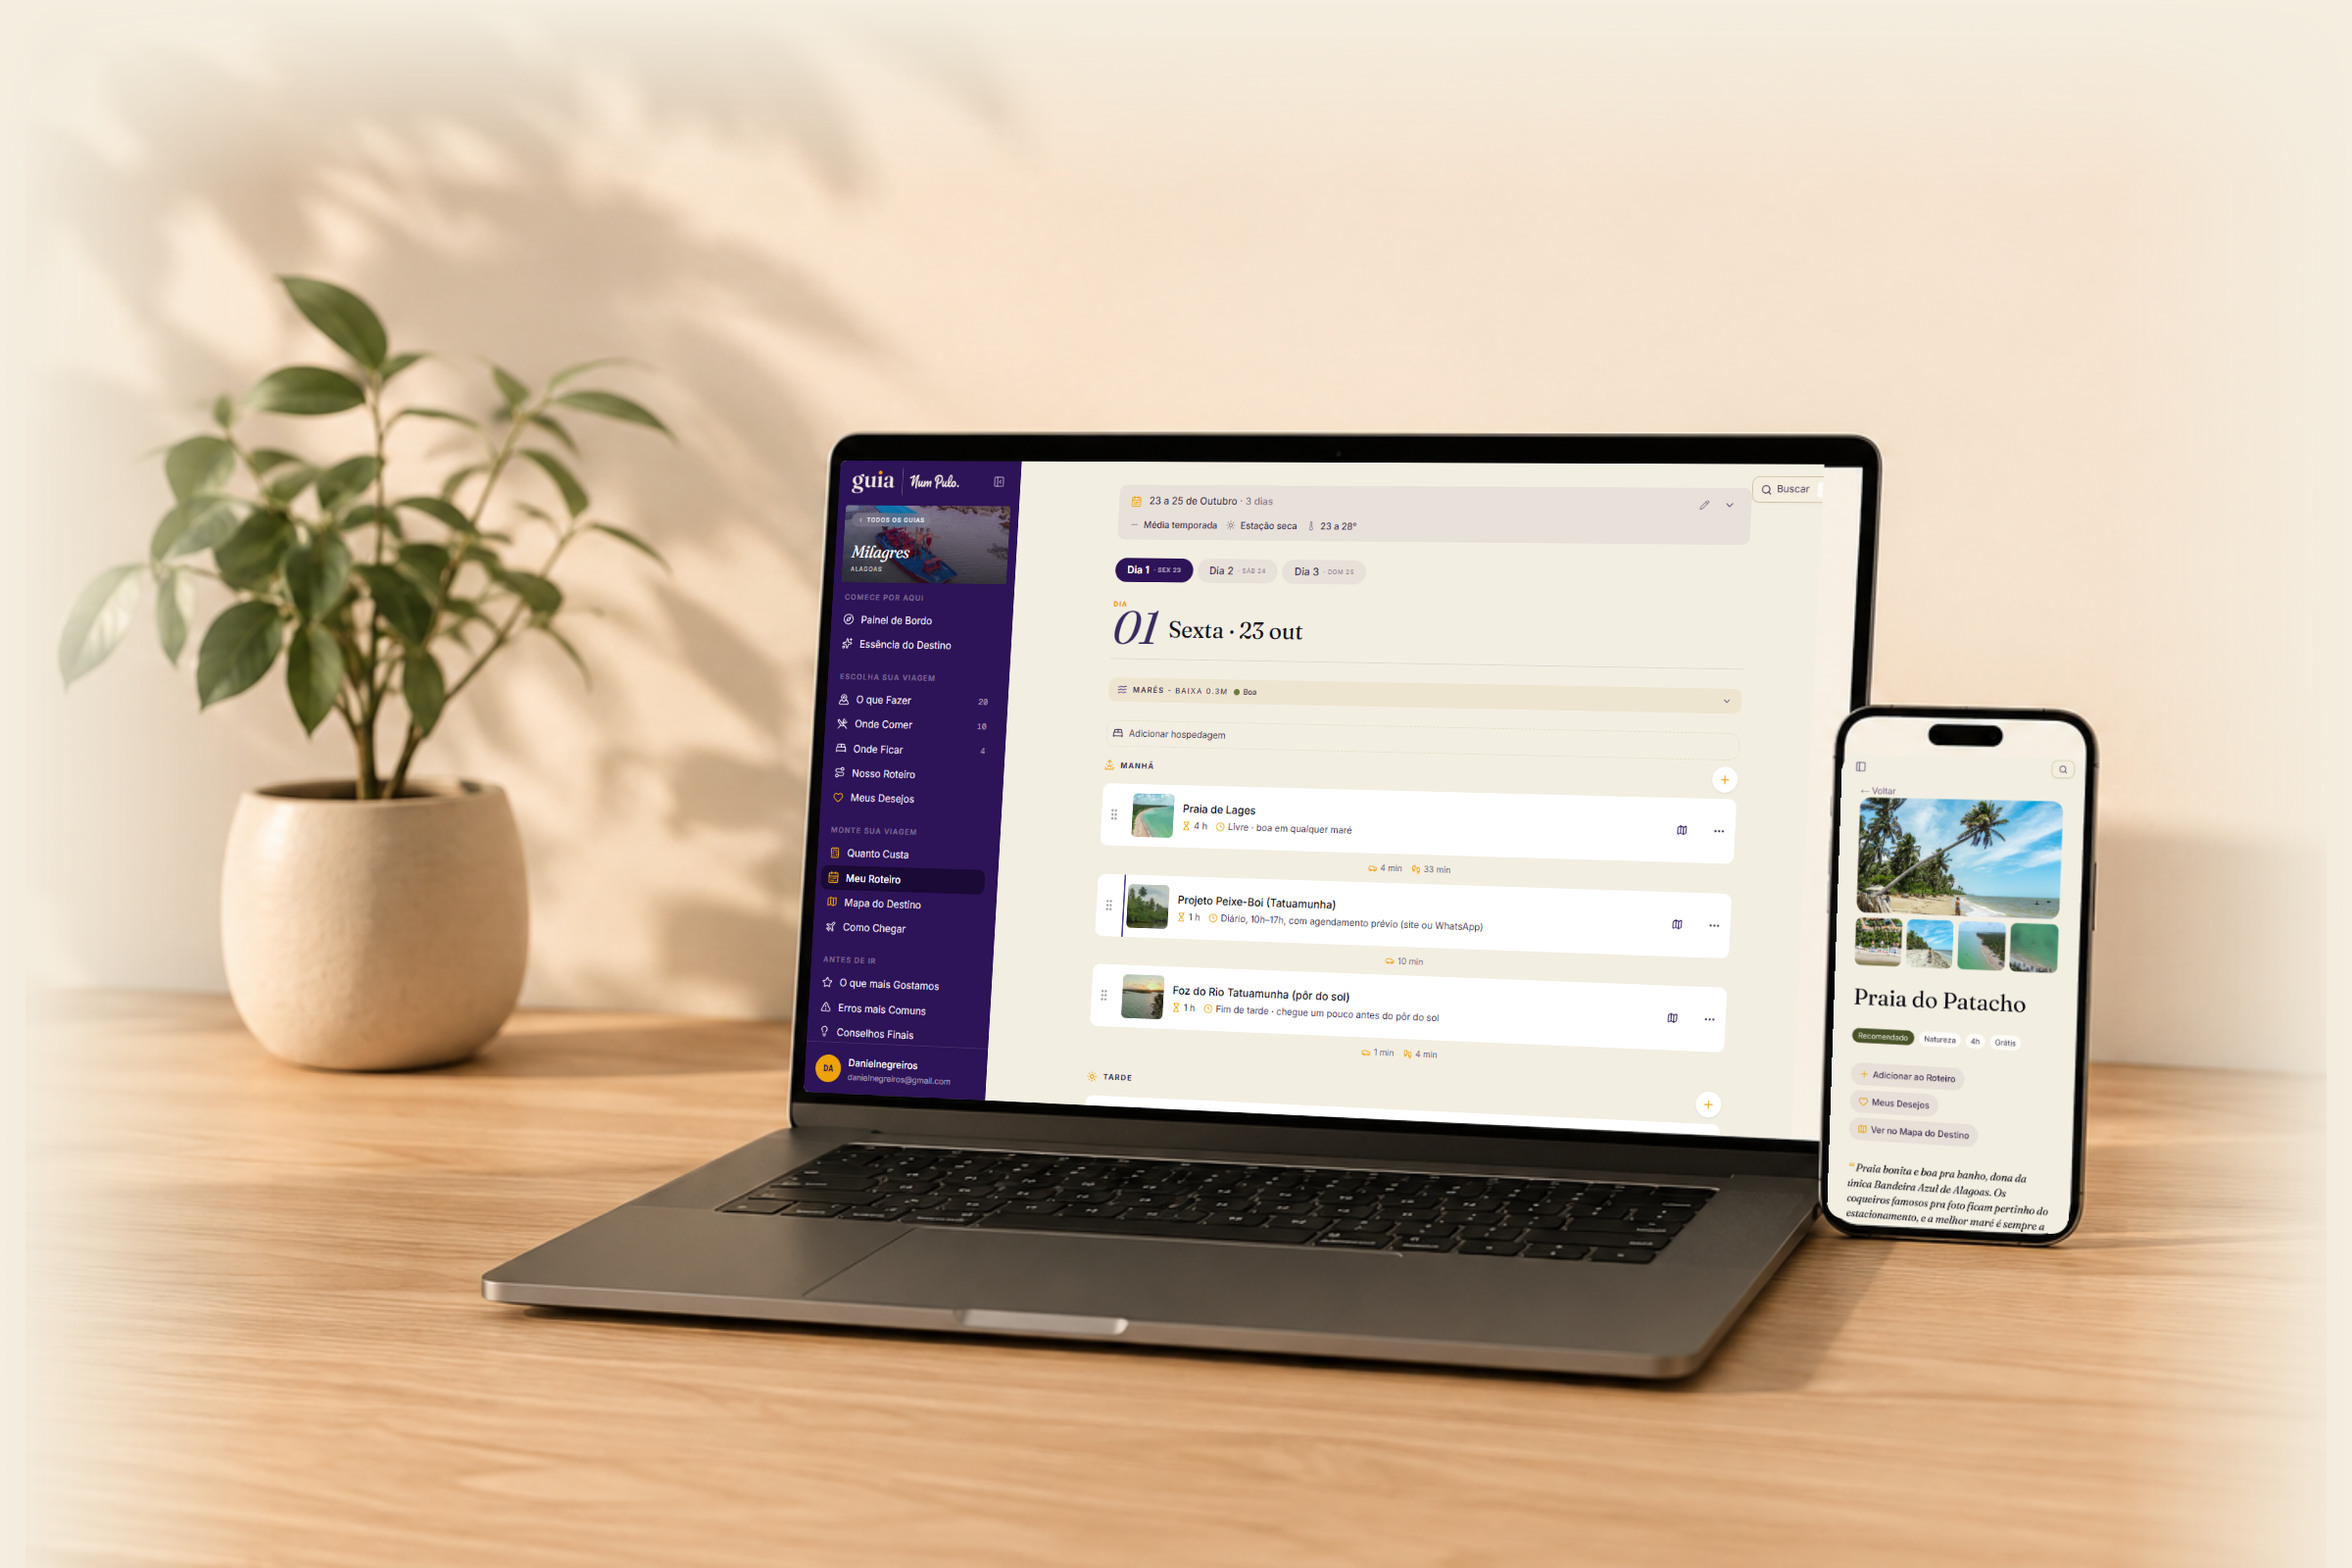
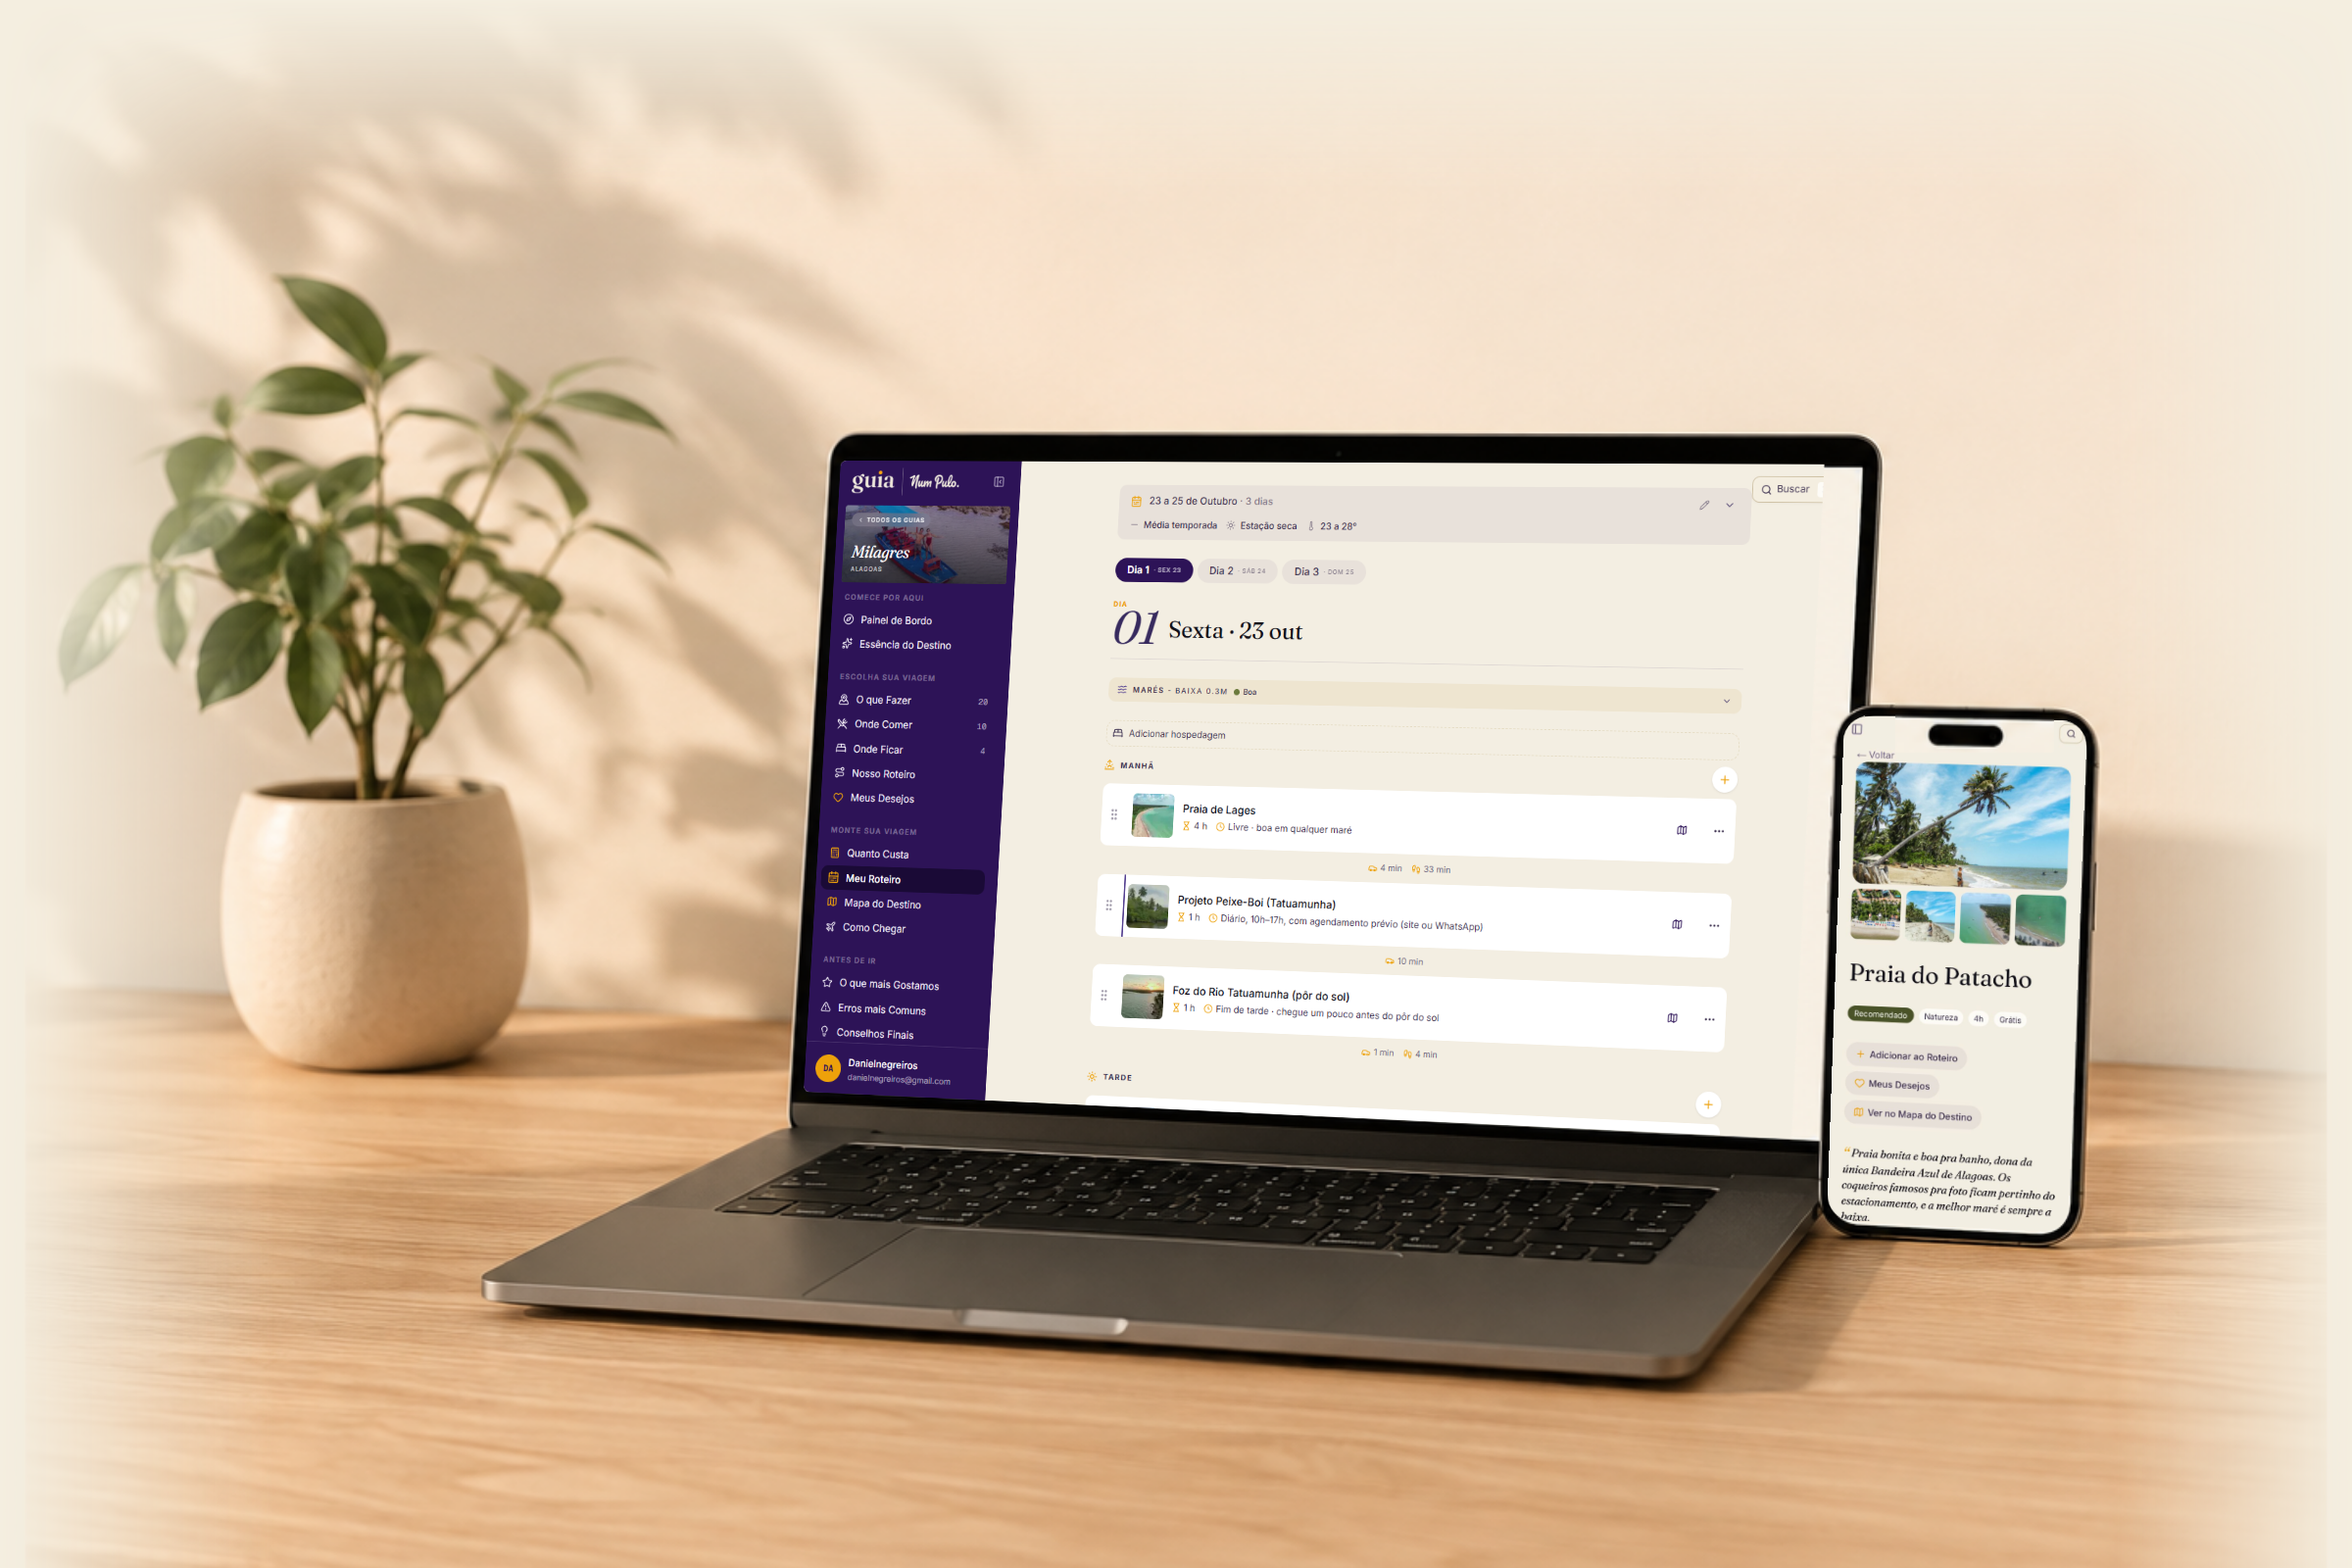
fix: conteudo cobre o vidro inteiro com ilha por cima; keystone real
Como celular de verdade: print ate o topo do vidro, ilha repintada da
base sobre o conteudo, bordas topo/fundo re-varridas de dentro pra
fora (convergencia 0.027/0.058) e raio do conteudo igual ao do vidro.

Changed region(s): [[0.7812, 0.4688, 0.9062, 0.7812]]

diff --git a/biblioteca/pecas/2026/2026-08-07-cena-guia-landing/fonte.html b/biblioteca/pecas/2026/2026-08-07-cena-guia-landing/fonte.html
@@ -22,14 +22,22 @@
   .tela { position: absolute; left: 0; top: 0; overflow: hidden; background: #F6F2EA; }
   #tela-nb { width: 1363px; height: 832px; border-radius: 8px; }
   #tela-nb img { display: block; width: 1363px; }
-  #tela-ph { width: 137px; height: 261px; border-radius: 9px; }
-  #tela-ph img { display: block; width: 137px; margin: -28px 0 0 0; }
+  #tela-ph { width: 137px; height: 284px; border-radius: 14px; }
+  #tela-ph img { display: block; width: 145px; margin: -29px 0 0 -4px; }
+  /* Ilha da câmera repintada da base por cima do conteúdo (hardware flutua sobre o app) */
+  #ilha {
+    position: absolute; left: 967px; top: 358px; width: 81px; height: 26px;
+    background-image: url('cena-base-ia.png');
+    background-size: 1272px 848px;
+    background-position: -1003px -382px;
+  }
 </style>
 </head>
 <body>
   <img class="base" src="cena-base-ia.png" alt="">
   <div class="tela" id="tela-nb"><img src="tela-roteiro-desktop.png" alt=""></div>
   <div class="tela" id="tela-ph"><img src="tela-patacho.jpg" alt=""></div>
+  <div id="ilha"></div>
   <script>
     function adj(m) {
       return [
@@ -87,10 +95,10 @@
       + xBot + 'px ' + yBot + 'px, -20px ' + yBot + 'px)';
     aplicar(nb, tNb);
 
-    // Celular: bordas paralelas (fone quase frontal, varredura de pixels);
-    // conteúdo começa abaixo da ilha da câmera (base creme aparece em volta dela).
+    // Celular: conteúdo cobre o vidro inteiro (como app real); a ilha é repintada
+    // por cima pelo #ilha. Bordas todas varridas de dentro para fora.
     aplicar(document.getElementById('tela-ph'),
-      homografia(137, 261, [940,385, 1064,387, 932,621, 1055,630]));
+      homografia(137, 284, [941,365, 1065,368, 932,622, 1055,629]));
   </script>
 </body>
 </html>
